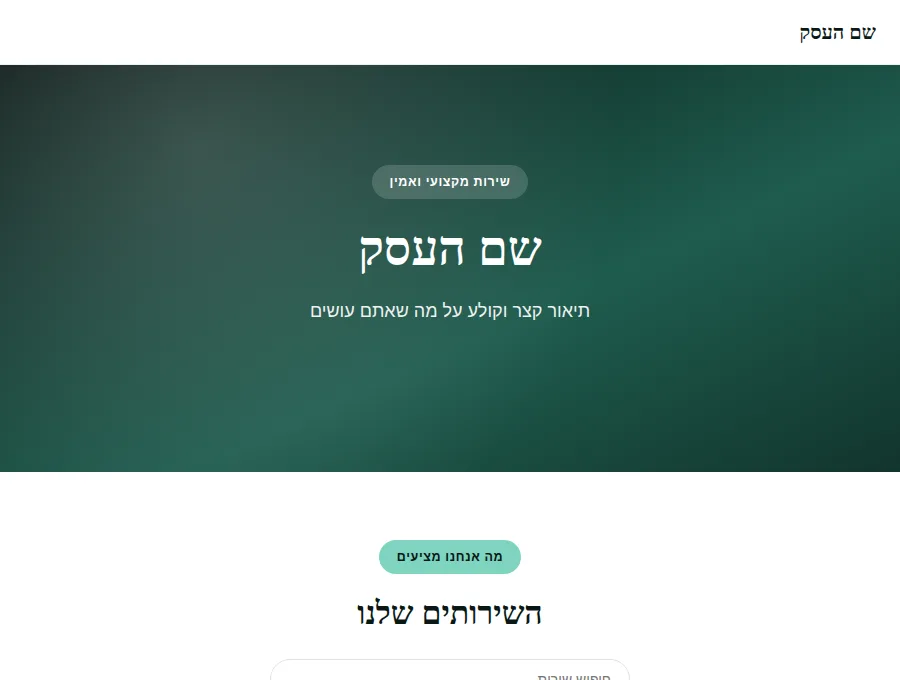
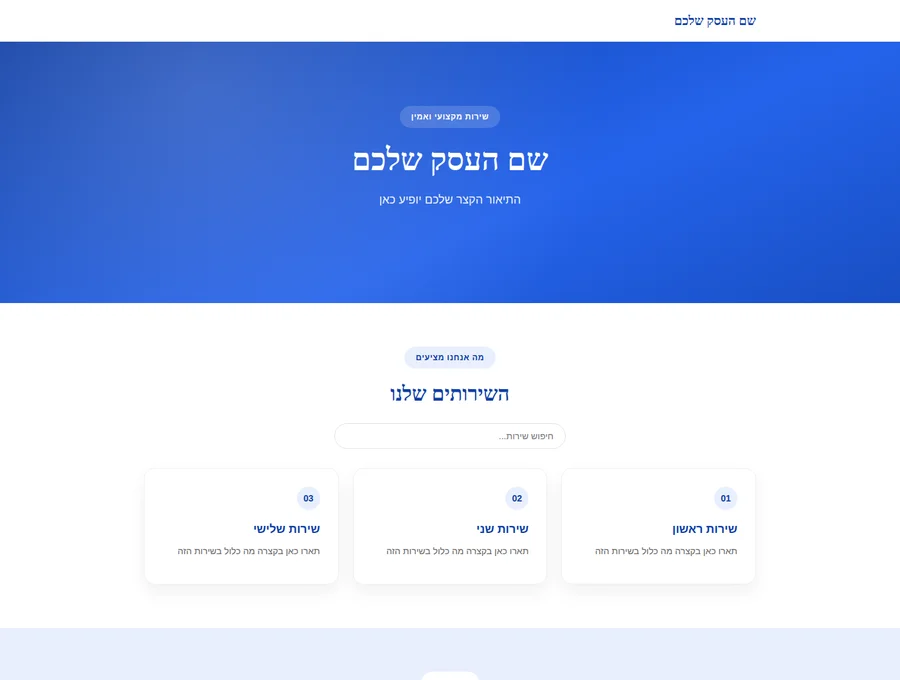
Give each site template its own distinct default color + regenerate previews
Every site template fell back to the exact same brand teal (#1F5C4E)
whenever no primaryColor was set yet — including in the catalog
preview thumbnails, which made all 11 templates look like variations
of one green/teal theme instead of genuinely different designs.

Assigned each template its own tasteful default accent color (blue,
violet, burnt orange, navy, magenta, gold, teal, forest green,
terracotta, burgundy, emerald — no repeats), then regenerated all 11
images/previews/site-*.webp thumbnails by rendering each template's
real HTML with its new default and screenshotting it, so the catalog
grid now actually shows the variety.

Claude-Session: https://claude.ai/code/session_0157gJphGVbeX9GSLjjRJNPV

diff --git a/js/site-templates.js b/js/site-templates.js
@@ -191,7 +191,7 @@ ${body}
 /* ---------- Template 1: local service business ---------- */
 function renderLocalServiceSite(d, page) {
   page = page || "index";
-  const pal = derivePalette(d.primaryColor || "#1F5C4E");
+  const pal = derivePalette(d.primaryColor || "#2563EB");
   const dd = withFallback(d);
   const wa = waLink(d.whatsapp || d.phone);
   const navLinksHtml = siteNavLinks(d, page);
@@ -303,7 +303,7 @@ function renderLocalServiceSite(d, page) {
 /* ---------- Template 2: freelancer / consultant ---------- */
 function renderFreelancerSite(d, page) {
   page = page || "index";
-  const pal = derivePalette(d.primaryColor || "#1F5C4E");
+  const pal = derivePalette(d.primaryColor || "#7C3AED");
   const dd = withFallback(d);
   const wa = waLink(d.whatsapp || d.phone);
   const navLinksHtml = siteNavLinks(d, page);
@@ -386,7 +386,7 @@ function renderFreelancerSite(d, page) {
 /* ---------- Template 3: small catalog / shop ---------- */
 function renderCatalogSite(d, page) {
   page = page || "index";
-  const pal = derivePalette(d.primaryColor || "#1F5C4E");
+  const pal = derivePalette(d.primaryColor || "#C2410C");
   const dd = withFallback(d);
   const wa = waLink(d.whatsapp || d.phone);
   const navLinksHtml = siteNavLinks(d, page);
@@ -483,7 +483,7 @@ function renderCatalogSite(d, page) {
 /* ---------- Template 4: modern gallery / editorial ---------- */
 function renderGallerySite(d, page) {
   page = page || "index";
-  const pal = derivePalette(d.primaryColor || "#1F5C4E");
+  const pal = derivePalette(d.primaryColor || "#1F2A44");
   const dd = withFallback(d);
   const wa = waLink(d.whatsapp || d.phone);
   const navLinksHtml = siteNavLinks(d, page);
@@ -595,7 +595,7 @@ function renderGallerySite(d, page) {
 /* ---------- Template 5: bold / neo-brutalist ---------- */
 function renderBoldSite(d, page) {
   page = page || "index";
-  const pal = derivePalette(d.primaryColor || "#1F5C4E");
+  const pal = derivePalette(d.primaryColor || "#B5175A");
   const dd = withFallback(d);
   const wa = waLink(d.whatsapp || d.phone);
   const navLinksHtml = siteNavLinks(d, page);
@@ -695,7 +695,7 @@ function renderBoldSite(d, page) {
 /* ---------- Template 6: elegant split-hero (events / boutique) ---------- */
 function renderElegantSite(d, page) {
   page = page || "index";
-  const pal = derivePalette(d.primaryColor || "#1F5C4E");
+  const pal = derivePalette(d.primaryColor || "#D4A017");
   const dd = withFallback(d);
   const wa = waLink(d.whatsapp || d.phone);
   const navLinksHtml = siteNavLinks(d, page);
@@ -817,7 +817,7 @@ function renderElegantSite(d, page) {
 /* ---------- Template 7: process / how-we-work ---------- */
 function renderProcessSite(d, page) {
   page = page || "index";
-  const pal = derivePalette(d.primaryColor || "#1F5C4E");
+  const pal = derivePalette(d.primaryColor || "#0E7C86");
   const dd = withFallback(d);
   const wa = waLink(d.whatsapp || d.phone);
   const navLinksHtml = siteNavLinks(d, page);
@@ -928,7 +928,7 @@ function renderProcessSite(d, page) {
 /* ---------- Template 8: creative portfolio (personal) ---------- */
 function renderPortfolioSite(d, page) {
   page = page || "index";
-  const pal = derivePalette(d.primaryColor || "#1F5C4E");
+  const pal = derivePalette(d.primaryColor || "#2D6A4F");
   const dd = withFallback(d);
   const wa = waLink(d.whatsapp || d.phone);
   const navLinksHtml = siteNavLinks(d, page);
@@ -1027,7 +1027,7 @@ function renderPortfolioSite(d, page) {
 /* ---------- Template 9: boutique shop with a featured item (shop) ---------- */
 function renderBoutiqueSite(d, page) {
   page = page || "index";
-  const pal = derivePalette(d.primaryColor || "#1F5C4E");
+  const pal = derivePalette(d.primaryColor || "#A0522D");
   const dd = withFallback(d);
   const wa = waLink(d.whatsapp || d.phone);
   const navLinksHtml = siteNavLinks(d, page);
@@ -1139,7 +1139,7 @@ function renderBoutiqueSite(d, page) {
 /* ---------- Template 10: dark luxury (events / boutique) ---------- */
 function renderNoirSite(d, page) {
   page = page || "index";
-  const pal = derivePalette(d.primaryColor || "#1F5C4E");
+  const pal = derivePalette(d.primaryColor || "#5C1F3D");
   const dd = withFallback(d);
   const wa = waLink(d.whatsapp || d.phone);
   const navLinksHtml = siteNavLinks(d, page);
@@ -1256,7 +1256,7 @@ function scrollRevealScript() {
 /* ---------- Template 11: creative studio (asymmetric split hero, dark) ---------- */
 function renderStudioSite(d, page) {
   page = page || "index";
-  const pal = derivePalette(d.primaryColor || "#1F5C4E");
+  const pal = derivePalette(d.primaryColor || "#0E9488");
   const dd = withFallback(d);
   const wa = waLink(d.whatsapp || d.phone);
   const navLinksHtml = siteNavLinks(d, page);
